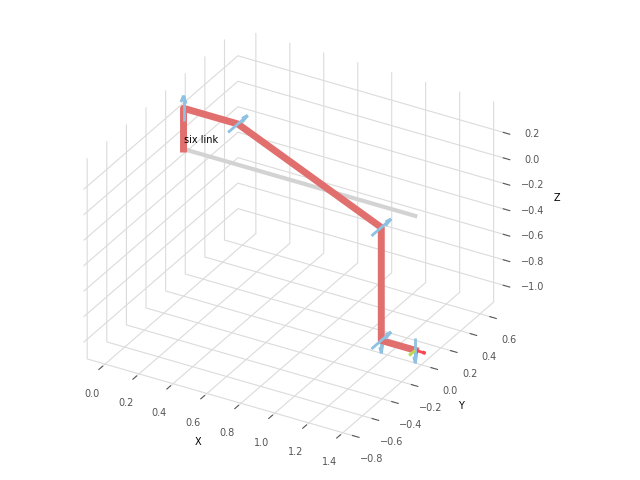
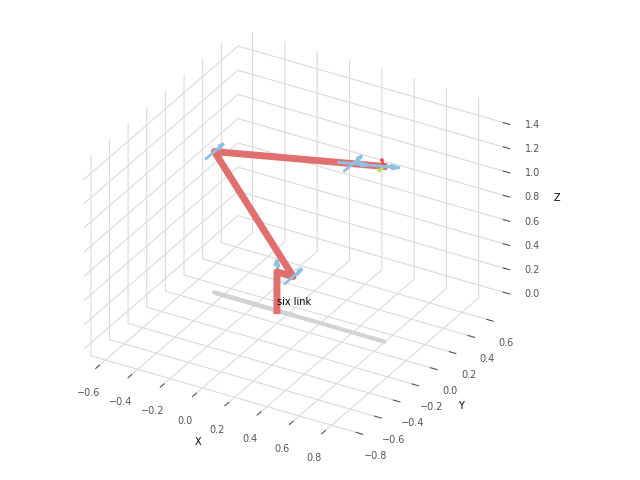
DH Fix

diff --git a/CreateDH.py b/CreateDH.py
@@ -6,6 +6,7 @@
 import roboticstoolbox as rtb
 from math import pi
 import numpy as np
+from spatialmath import SE3
 
 L1 = 0.320
 L3 = 0.975
@@ -15,18 +16,18 @@ L6 = 0.887
 robot = rtb.DHRobot(
     [
         rtb.RevoluteMDH(alpha=0, a=0, offset=0, d=L1),
-        rtb.RevoluteMDH(alpha=-pi / 2, a=L1, offset=0, d=0),
+        rtb.RevoluteMDH(alpha=-pi / 2, a=0.1, offset=0, d=0),
         rtb.RevoluteMDH(alpha=0, a=L3, offset=0, d=0),
         rtb.RevoluteMDH(alpha=-pi / 2, a=0, offset=0, d=L6),
         rtb.RevoluteMDH(alpha=pi / 2, a=0, offset=0, d=0),
-        rtb.RevoluteMDH(alpha=-pi / 2, a=L5, offset=0, d=0)
+        rtb.RevoluteMDH(alpha=-pi / 2, a=0, offset=0, d=L5)
     ], name="six link")
 
-init_T = np.array([0, pi / 6, -pi / 6, 0, 0, 0])
-theta = [0, pi / 6, -pi / 6, 0, 0, 0]
-robot.teach(theta) 		#示教模式
+init_T = np.array([0,-2/3*pi,pi/12, 0, 0, 0])
 robot.plot(init_T, movie='six link.png')
-p = robot.fkine(theta)  # 机械臂求正解
-print(p)
-q = robot.ikine_LM(p)  # 机械臂求逆解
-print(q)
+robot.teach(init_T)  # 示教模式
+Tep = SE3.Trans(1,0, 1.5) * SE3.OA([0, 1, 0], [0, 0, -1])
+sol = robot.ik_LM(Tep)  # solve IK
+q_pickup = sol[0]
+qt = rtb.jtraj(robot.q, q_pickup, 50)
+robot.plot(qt.q, backend='pyplot', movie='panda1.gif')

diff --git a/README.md b/README.md
@@ -13,10 +13,14 @@
 >* 将程序中的init_T和theta设置为机械臂的初始姿态和运动学参数。
 >* 执行CreateDH.py，程序将自动计算机械臂的正逆运动学并将姿态可视化。
 # 仿真实物对照图
+
 <div style="display:flex;">
-    <img src="./依据ABB机械臂建立的仿真图.png" width="45%" style="margin-right:10px;">
+    <img src="./six link.png" width="45%" style="margin-right:10px;">
     <img src="./参照机械臂ABB.png" width="45%">
 </div>
+
+# 仿真动图
+<img src="./panda1.gif" alt="example">
 
 # 参考资料：
 ![](./改进DH建模方式.png)
